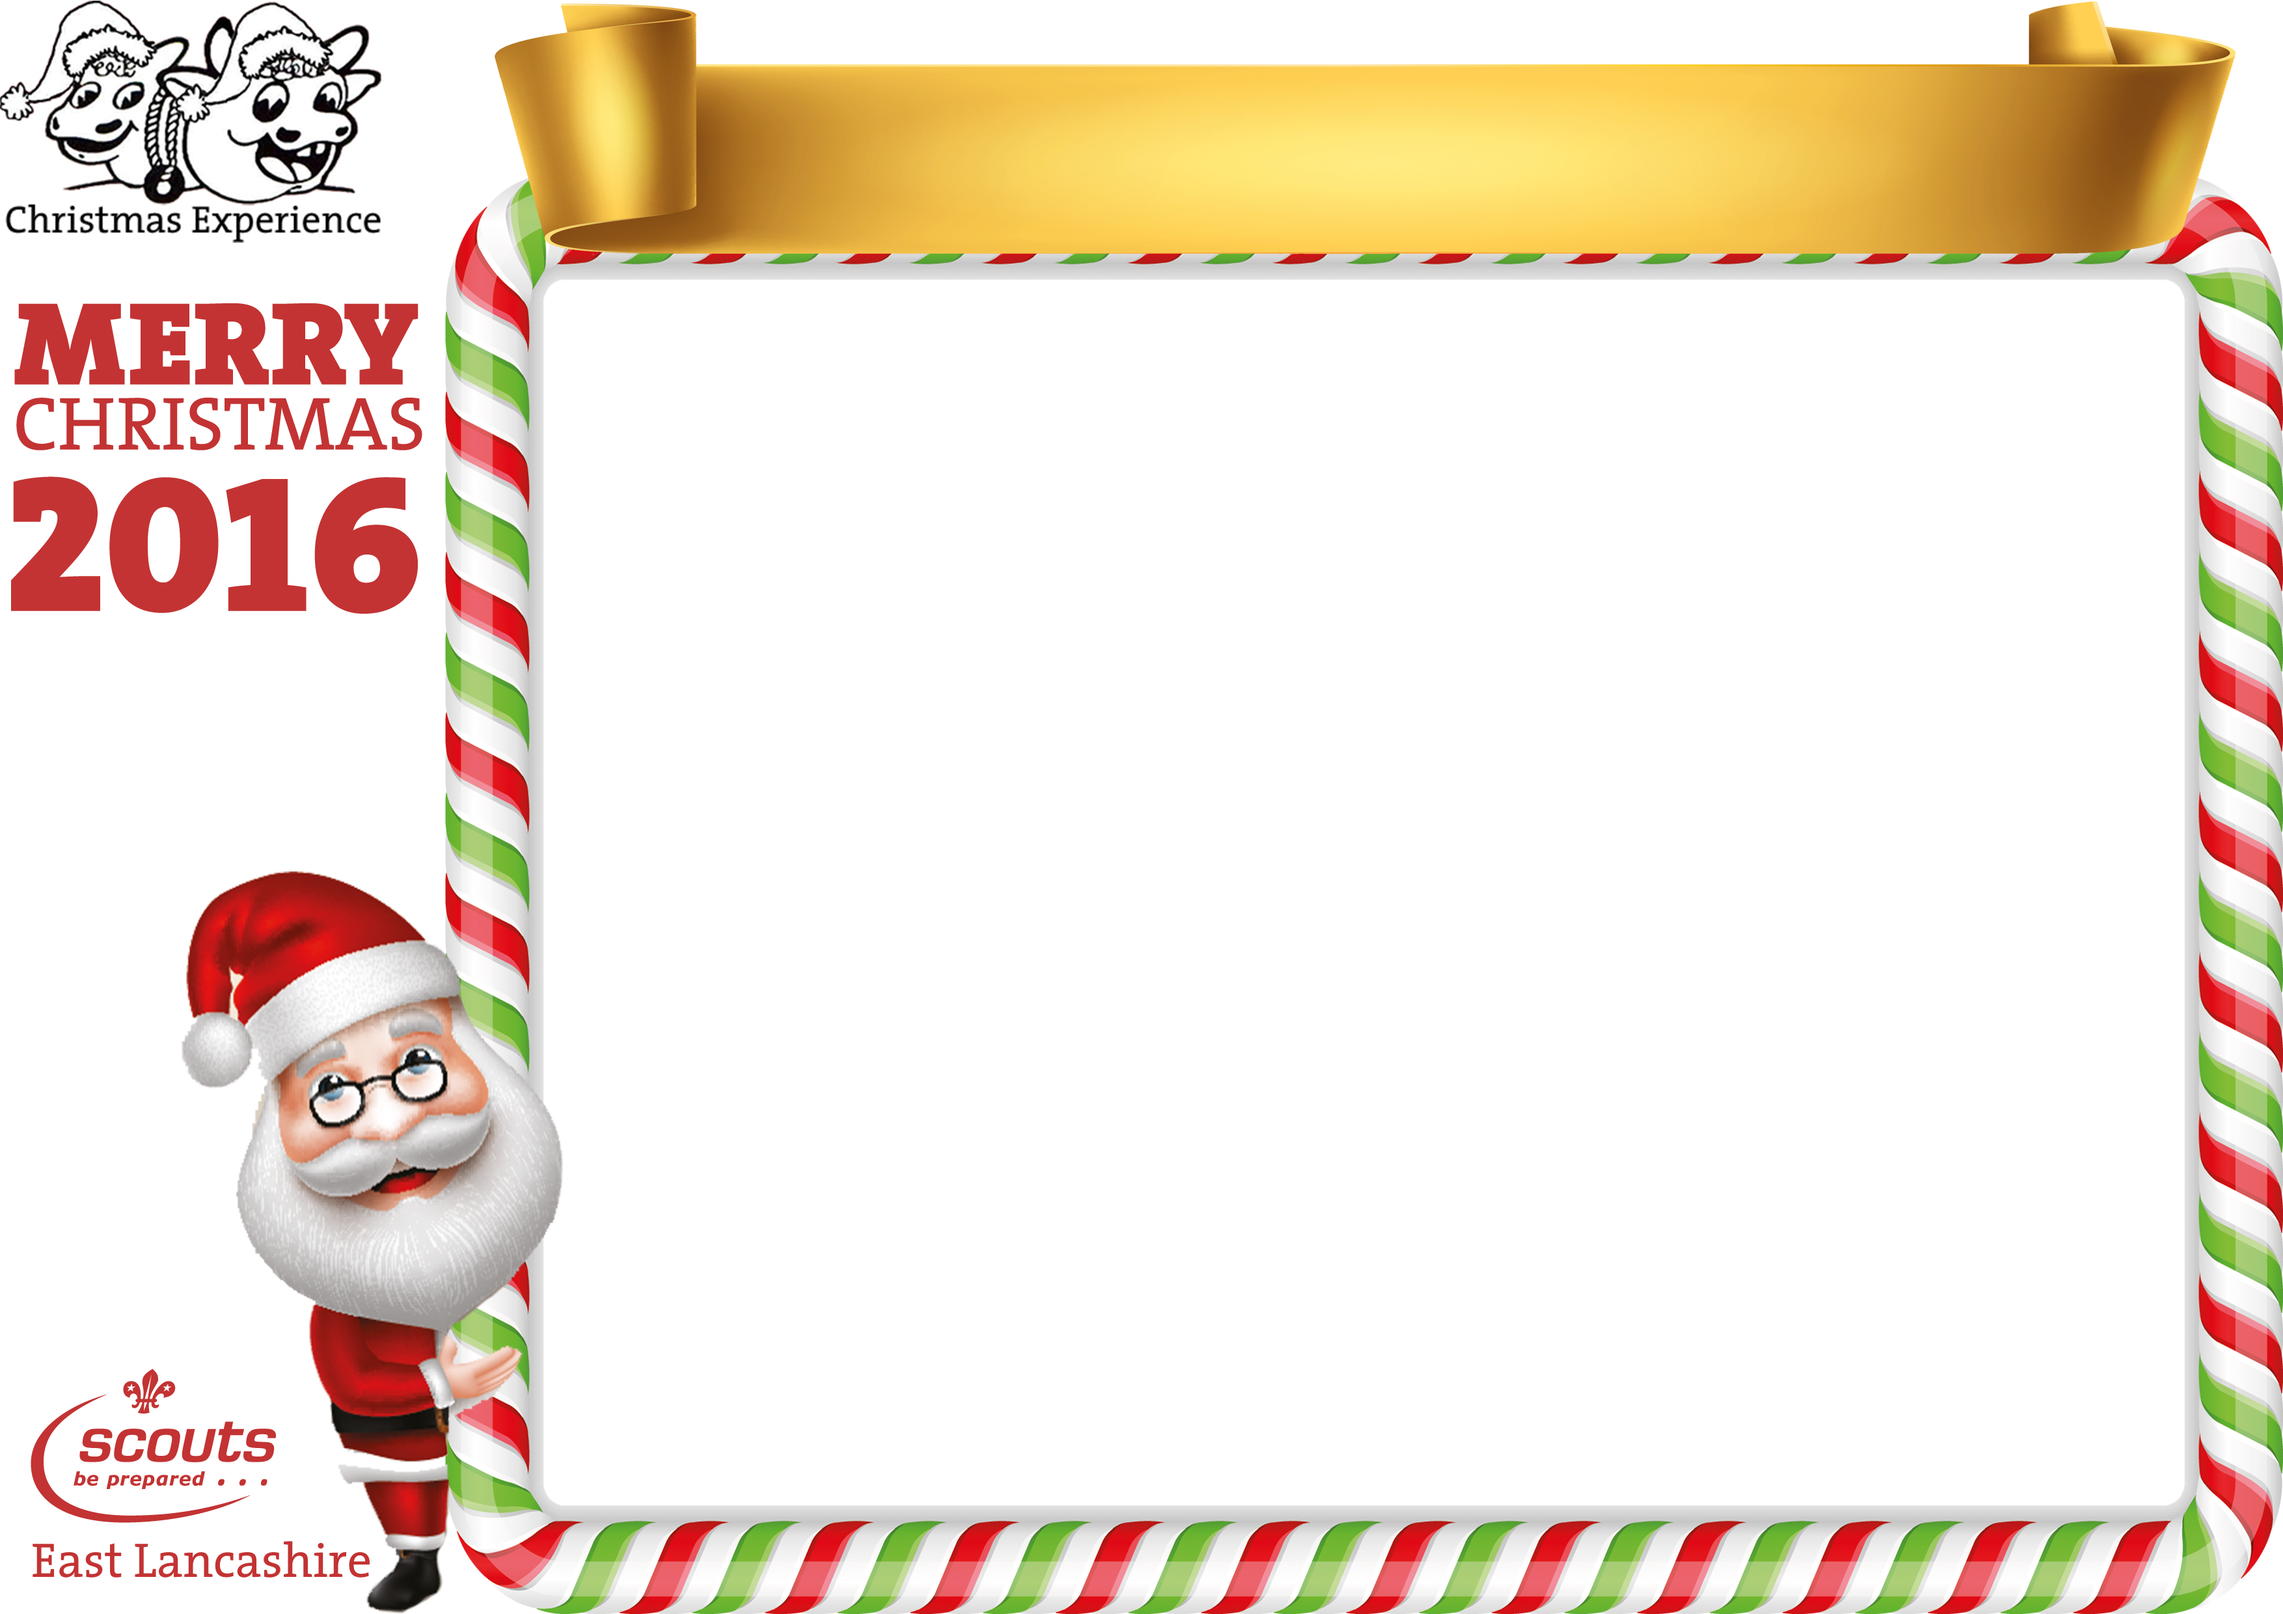
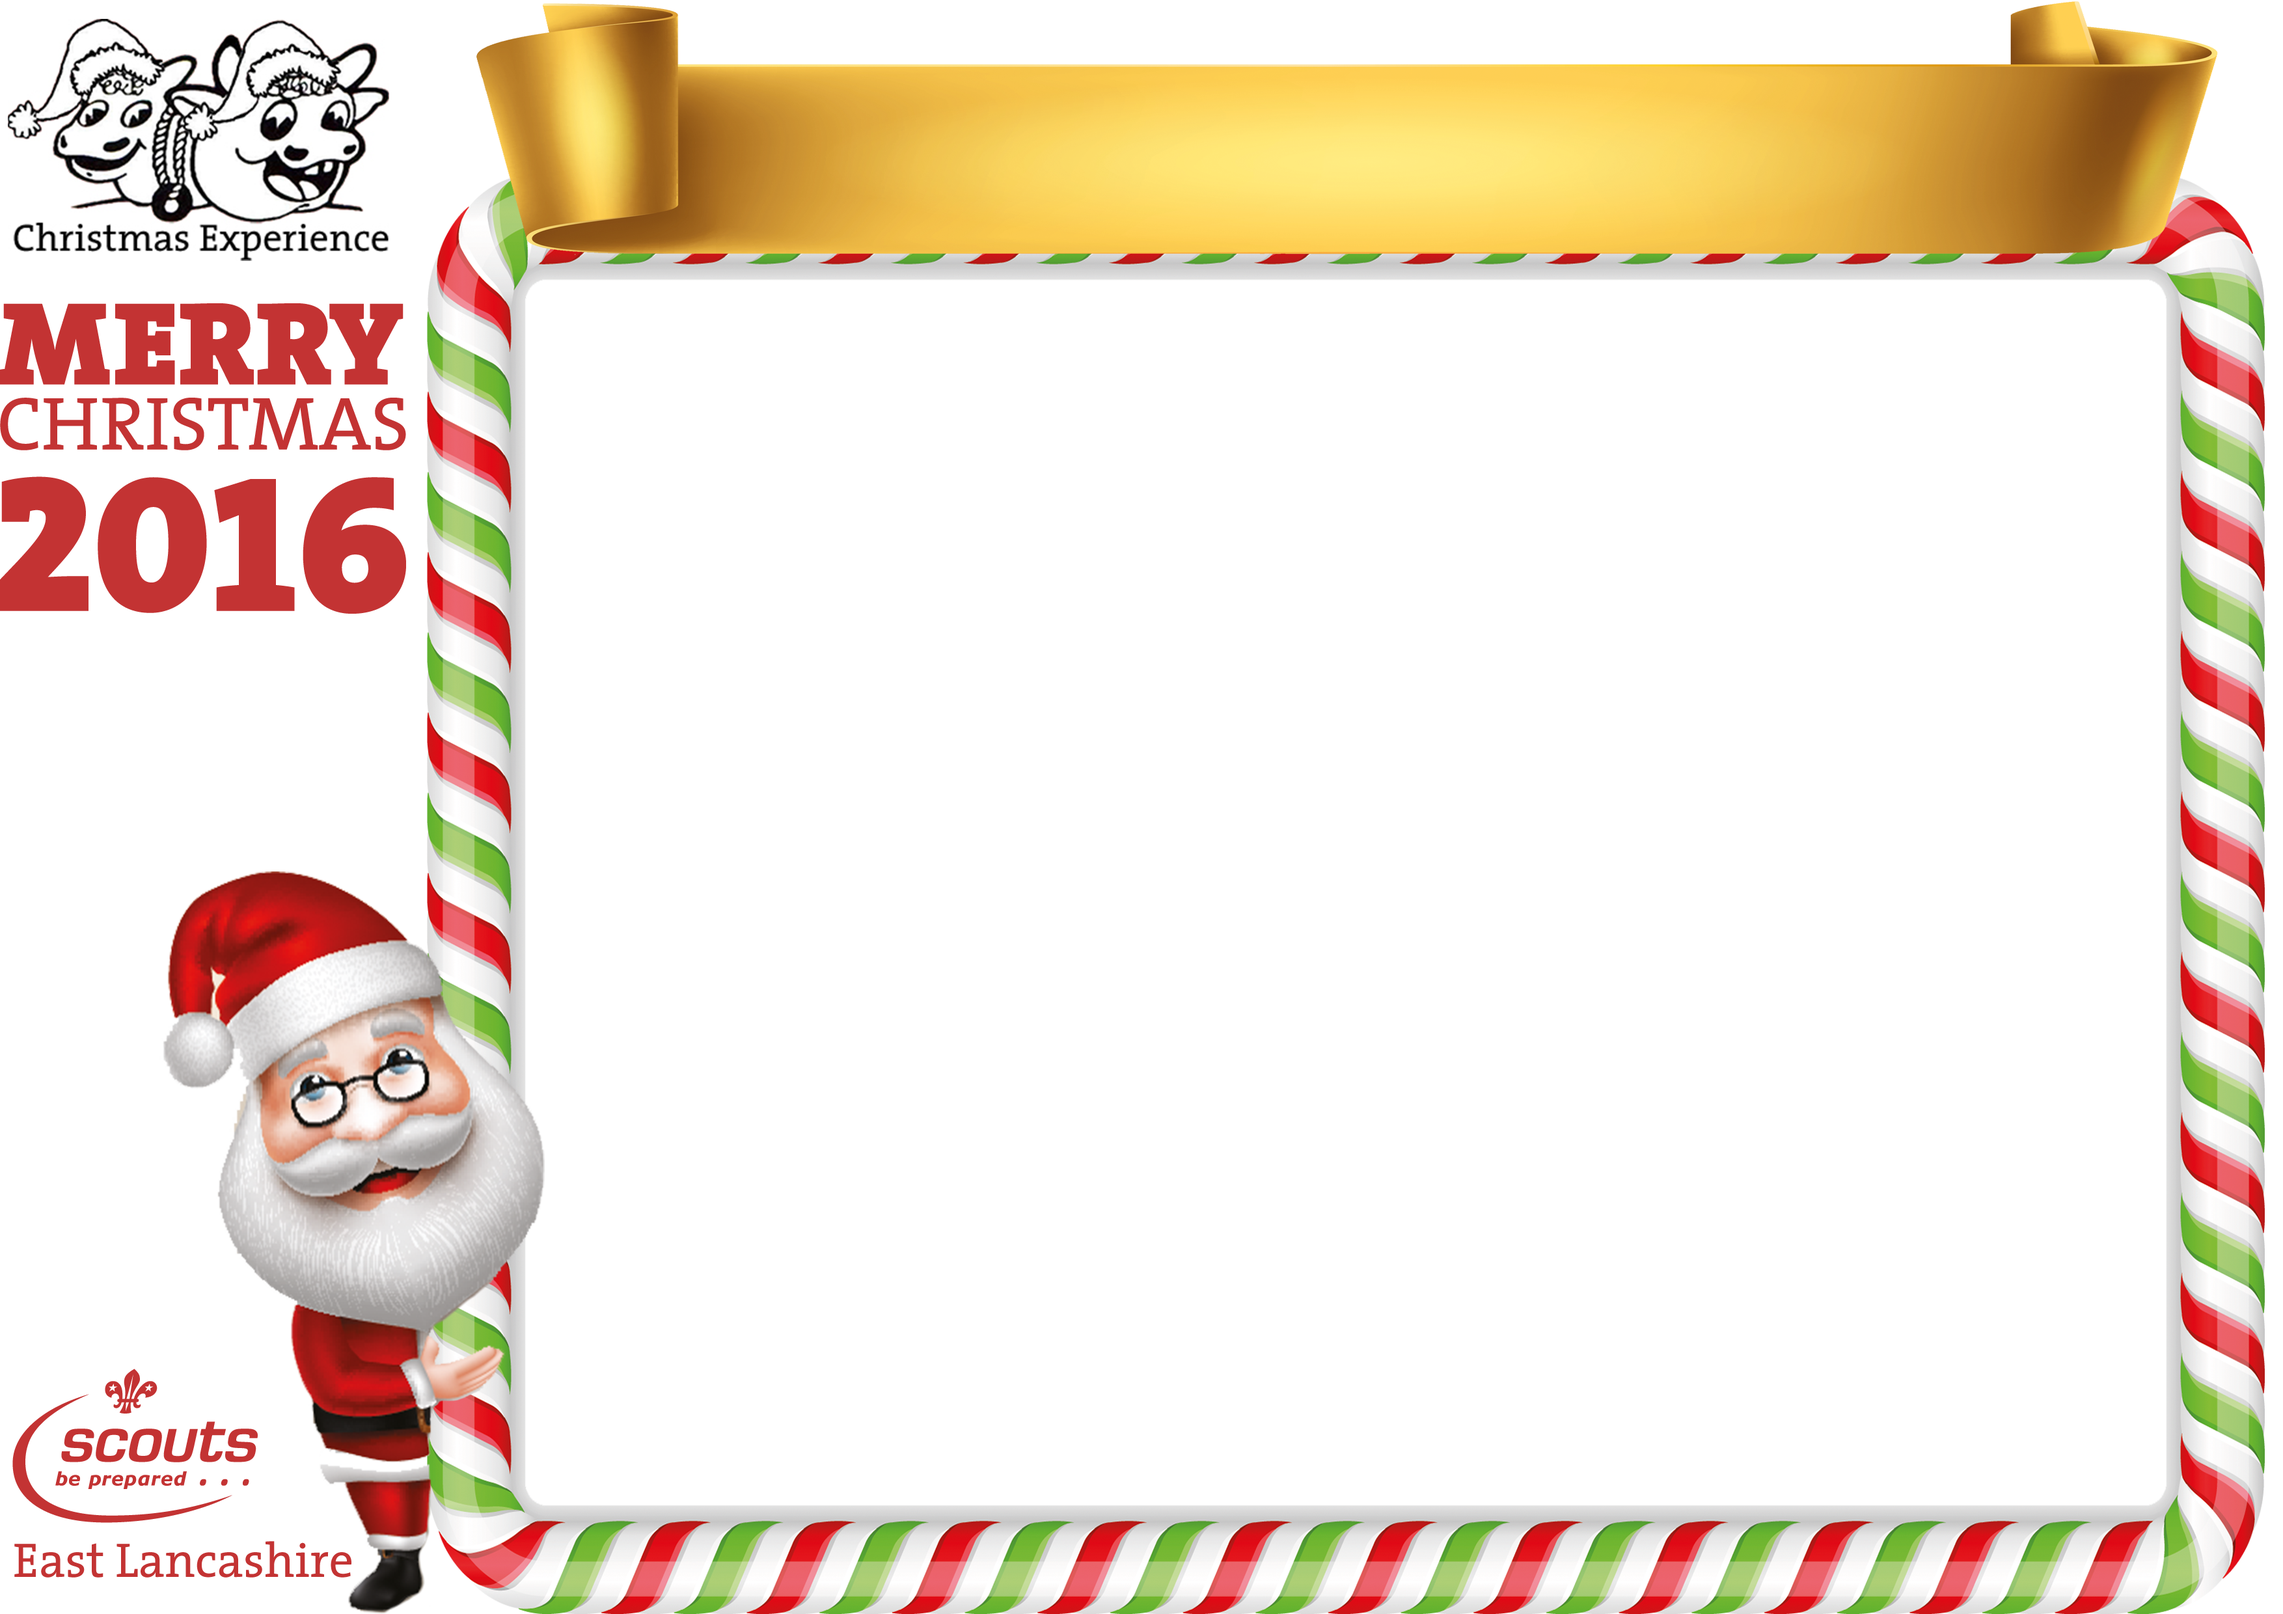
Update mask - shift 28 pixels to left

Changed region(s): [[0.0, 0.0, 1.0, 1.0]]

diff --git a/python/process.py b/python/process.py
@@ -24,10 +24,10 @@ def create_title(base, group_name, timeid):
     small_font = ImageFont.truetype('fonts/DejaVuSans.ttf', 42)
     textdraw = TextDraw(draw)
     group_rect = textdraw.centre(
-        (1141, 99, 3181, 389),
+        (1113, 99, 3153, 389),
         group_name, group_font)
     timeid_rect = textdraw.right(
-        (836, 2394, 3352, 2454),
+        (808, 2394, 3324, 2454),
         timeid, small_font)
     textdraw.text(group_rect, group_name, black, group_font)
     textdraw.text(timeid_rect, timeid, grey, small_font, shadow, white)

diff --git a/python/mask.py b/python/mask.py
@@ -5,7 +5,7 @@ class Mask(object):
 
     PHOTO_WIDTH = 2533
     PHOTO_HEIGHT = 1899
-    PHOTO_LEFT = 832
+    PHOTO_LEFT = 804
     PHOTO_TOP = 428
 
     def __init__(self, paper_size):
